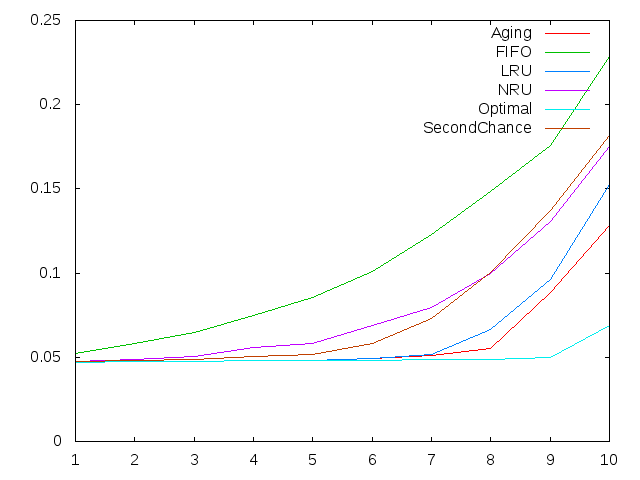
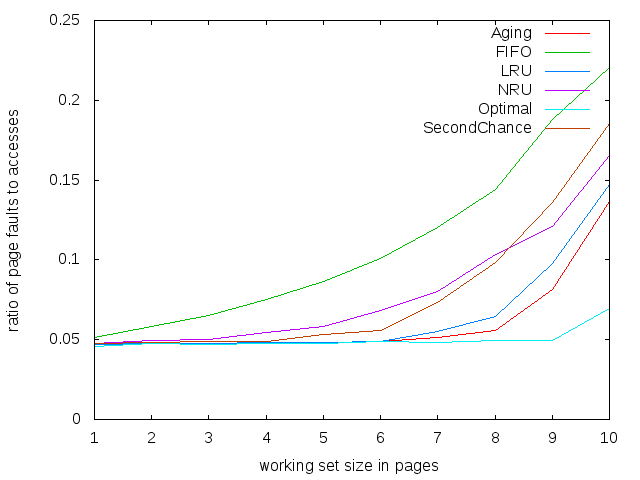
pr

diff --git a/pra-sim/source/demo.py b/pra-sim/source/demo.py
@@ -397,8 +397,11 @@ g = Gnuplot.Gnuplot()
 #g('set data style lines')
 g('set style data lines')
 g('set yrange [0:]')
+g.xlabel('working set size in pages')
+g.ylabel('ratio of page faults to accesses')
 g('set term png')
 g('set out "demo.png"')
+
 g.plot(*d)
 ---
 
